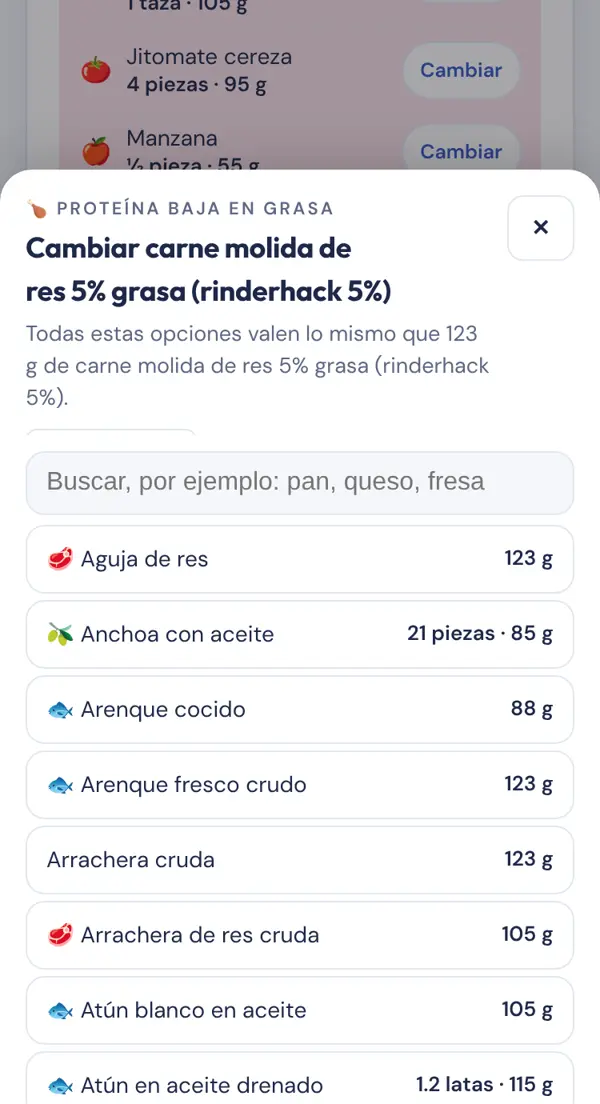
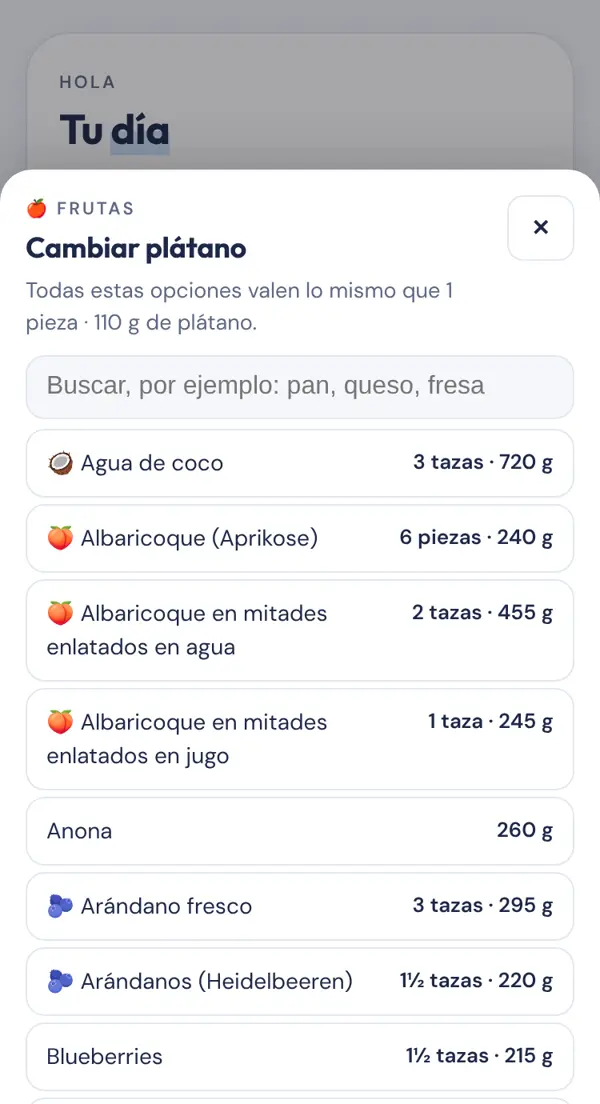
Página principal: para todas las latinas, sin Ozempic, capturas con otro plan, países variados
Claude-Session: https://claude.ai/code/session_01S2tUWvQ5tkvfoDM66tmKiz

diff --git a/app/page.tsx b/app/page.tsx
@@ -22,10 +22,10 @@ const nutrientes = [
   ["🌾 Fibra", "Baja cuando comemos más pan blanco y menos frijoles y fruta."],
 ];
 const porque: [string, string, string][] = [
-  ["🌮 Comida de casa, súper de aquí", "Tu menú sabe a México y se arma con lo que venden Lidl, Aldi, Mercadona, EDEKA o el súper de tu ciudad, con su nombre en el idioma del país.", "t-yellow"],
+  ["🏡 Comida de casa, súper de aquí", "Tu menú sabe a casa y se arma con lo que venden Lidl, Aldi, Mercadona, EDEKA o el súper de tu ciudad, con su nombre en el idioma del país.", "t-yellow"],
   ["📱 Tu app incluida", "Tu plan, tu lista del súper, tu registro diario y tu rutina en el celular. No es un PDF que se pierde en el WhatsApp.", "t-blue"],
   ["🩸 Salud hormonal y metabólica", "Trabajo con tus análisis y con lo que más vemos en mujeres: SOP, resistencia a la insulina, endometriosis y tiroides.", "t-pink"],
-  ["🕐 Horarios de Europa y México", "Agendamos en tu zona horaria, vivas en Madrid, Berlín, Zúrich, Londres o Guadalajara.", "t-green"],
+  ["🕐 Horarios en tu zona", "Agendamos en tu zona horaria, vivas en Alemania, Suiza, Colombia, México o Dubái.", "t-green"],
 ];
 const app: [string, string, string][] = [
   ["/app-hoy.webp", "Tu día", "Cada comida con su hora y sus cantidades. La marcas como lista y ves tu meta del día."],
@@ -33,7 +33,7 @@ const app: [string, string, string][] = [
   ["/app-stats.webp", "Tu registro y tus estadísticas", "Agua, sueño, ánimo y actividad en un minuto al día. Ves tu avance de la semana y del mes."],
   ["/app-rutina.webp", "Tu rutina del mes", "Una rutina nueva cada mes, con videos, series y un lugar para anotar tus pesos."],
 ];
-const temas = ["SOP", "Resistencia a la insulina", "Endometriosis", "Hipotiroidismo", "Diabetes tipo 2", "Colitis y salud intestinal", "Anemia y hierro bajo", "Si usas Ozempic o similares", "Bajar grasa y ganar músculo", "Glúteos y fuerza"];
+const temas = ["SOP", "Resistencia a la insulina", "Endometriosis", "Hipotiroidismo", "Diabetes tipo 2", "Colitis y salud intestinal", "Anemia y hierro bajo", "Bajar grasa y ganar músculo", "Glúteos y fuerza"];
 const precios: { titulo: string; etiqueta: string; items: string[]; destacado: boolean; precio: [string, string, string]; nota?: string }[] = [
   {
     titulo: "Consulta nutricional online personalizada",
@@ -79,7 +79,7 @@ const precios: { titulo: string; etiqueta: string; items: string[]; destacado: b
 const faq = [
   ["¿Necesito análisis de sangre para empezar?", "Sí, mi trabajo parte de ahí. Al agendar te mando la lista. Si no consigues todos, con biometría, ferritina y vitamina D ya podemos empezar."],
   ["¿Atiendes en cualquier país?", "Sí, todo es en línea. Agendamos en tu zona horaria y el menú se arma con lo que hay en tu súper."],
-  ["¿En qué horario atiendes?", "Tengo horarios para Europa y para México. Al escribirme dime en qué ciudad vives y te paso los horarios en tu zona."],
+  ["¿En qué horario atiendes?", "Atiendo en varias zonas horarias. Al escribirme dime en qué ciudad vives y te paso los horarios en tu zona."],
   ["¿Necesito descargar algo?", "No. Tu app se abre desde el navegador con tu correo y la puedes poner en la pantalla de inicio de tu celular, como cualquier app."],
   ["¿Cómo pago?", "Por transferencia. Tengo cuenta en México y en Europa, así pagas en pesos o en euros. Te mando los datos al agendar."],
   ["¿Cuándo recibo mi plan?", "De 2 a 3 días después de tu primera consulta, en tu página y con una nota de voz para empezar."],
@@ -131,7 +131,7 @@ export default function Home() {
 
       <section className="sec" id="porque">
         <h2>Por qué conmigo</h2>
-        <p>Soy mexicana y sé lo que es buscar tortillas en otro idioma.</p>
+        <p>Soy latina y sé lo que es extrañar la comida de casa y hacer el súper en otro idioma.</p>
         <div className="porque">
           {porque.map(([t, d, c]) => (
             <div key={t} className={c}>
